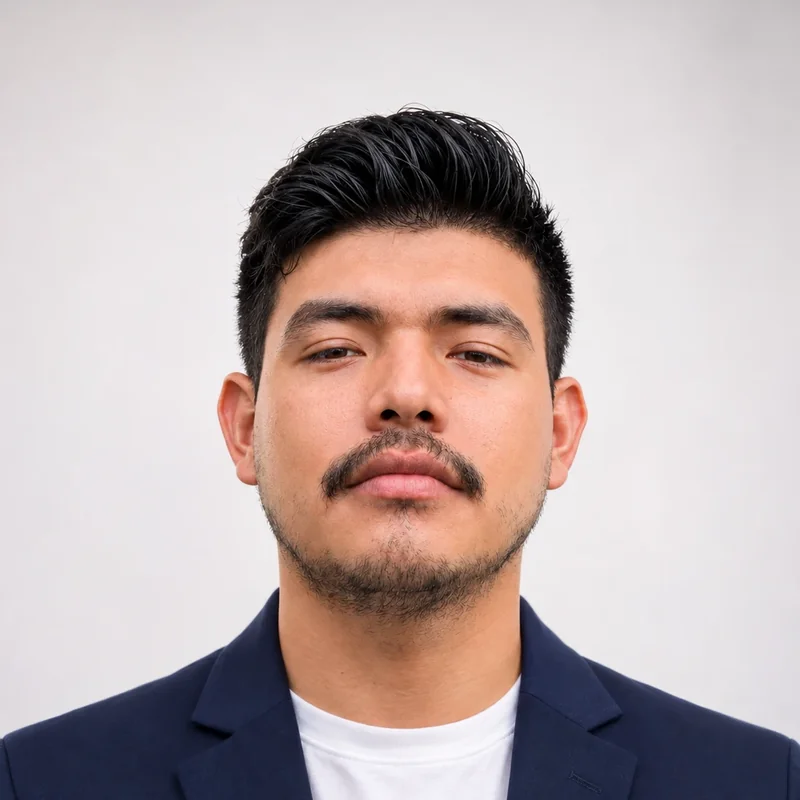
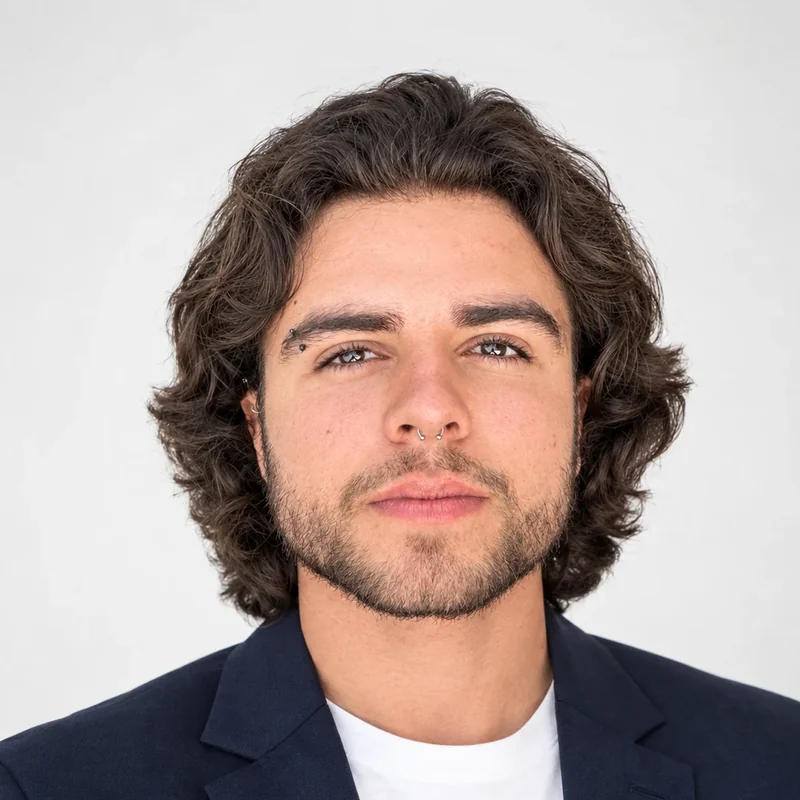
Equipo: cada foto con la información de su integrante; app 1.2.3
Las fotos conservan su posición y la información se reordena:
Carlos López, Adrián Pérez, Yoel Ramos, Gael Zamora y Cristopher Larios.
Cada archivo de foto queda con el nombre de su integrante.
App Android 1.2.3 (versionCode 7); el botón apunta al APK v1.2.3.

Claude-Session: https://claude.ai/code/session_01BzA3nRGfvqK7V5FUeKxxb9

diff --git a/src/data/team.ts b/src/data/team.ts
@@ -11,19 +11,6 @@ import type { TeamMember } from '../types'
 
 export const team: TeamMember[] = [
   {
-    id: 'cristopher-larios',
-    name: 'Cristopher Larios García',
-    role: {
-      es: 'Programación en Unity',
-      en: 'Unity programming',
-    },
-    description: {
-      es: 'Desarrollo del videojuego en Unity: mecánicas de combate, integración de recursos y programación en C#.',
-      en: 'Game development in Unity: combat mechanics, asset integration and C# programming.',
-    },
-    image: '/images/team/cristopher-larios.webp',
-  },
-  {
     id: 'carlos-lopez',
     name: 'Carlos Eduardo López Castillo',
     role: {
@@ -74,6 +61,19 @@ export const team: TeamMember[] = [
       en: 'Music and sound effects in FL Studio, and site animations with GSAP and ScrollTrigger.',
     },
     image: '/images/team/gael-zamora.webp',
+  },
+  {
+    id: 'cristopher-larios',
+    name: 'Cristopher Larios García',
+    role: {
+      es: 'Programación en Unity',
+      en: 'Unity programming',
+    },
+    description: {
+      es: 'Desarrollo del videojuego en Unity: mecánicas de combate, integración de recursos y programación en C#.',
+      en: 'Game development in Unity: combat mechanics, asset integration and C# programming.',
+    },
+    image: '/images/team/cristopher-larios.webp',
   },
 ]
 

diff --git a/src/config.ts b/src/config.ts
@@ -62,7 +62,7 @@ export const downloads: DownloadTarget[] = [
   {
     id: 'app',
     // APK publicado en GitHub Releases (flujo .github/workflows/android-release.yml).
-    url: 'https://github.com/adrianarias1/King-Of-Music---Web-Movil/releases/download/v1.2.2/KingOfMusic-v1.2.2.apk',
+    url: 'https://github.com/adrianarias1/King-Of-Music---Web-Movil/releases/download/v1.2.3/KingOfMusic-v1.2.3.apk',
     title: { es: 'App para Android', en: 'Android app' },
     description: {
       es: 'Este sitio como app: personajes en 3D, historia, mapa y reseñas.',
